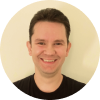
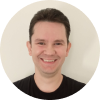
Atualização de imagens

diff --git a/index.html b/index.html
@@ -85,7 +85,7 @@
           <img class="citacao" src="./assets/Citação.png" alt="Ícone de Citação">
           <h1>Ter visão estratégica é essencial para o sucesso de qualquer projeto!</h1>
           <a target="_blank" href="mailto:sanderlfg@gmail.com">CONTATAR-ME</a>
-          <img class="foto" src="./assets/ImagemSander.png" alt="Foto do Sander Garcia">
+          <img class="foto" src="./assets/ImagemSander2.png" alt="Foto do Sander Garcia">
         </div><!--banner-->
 
         <div class="quantitativo">
